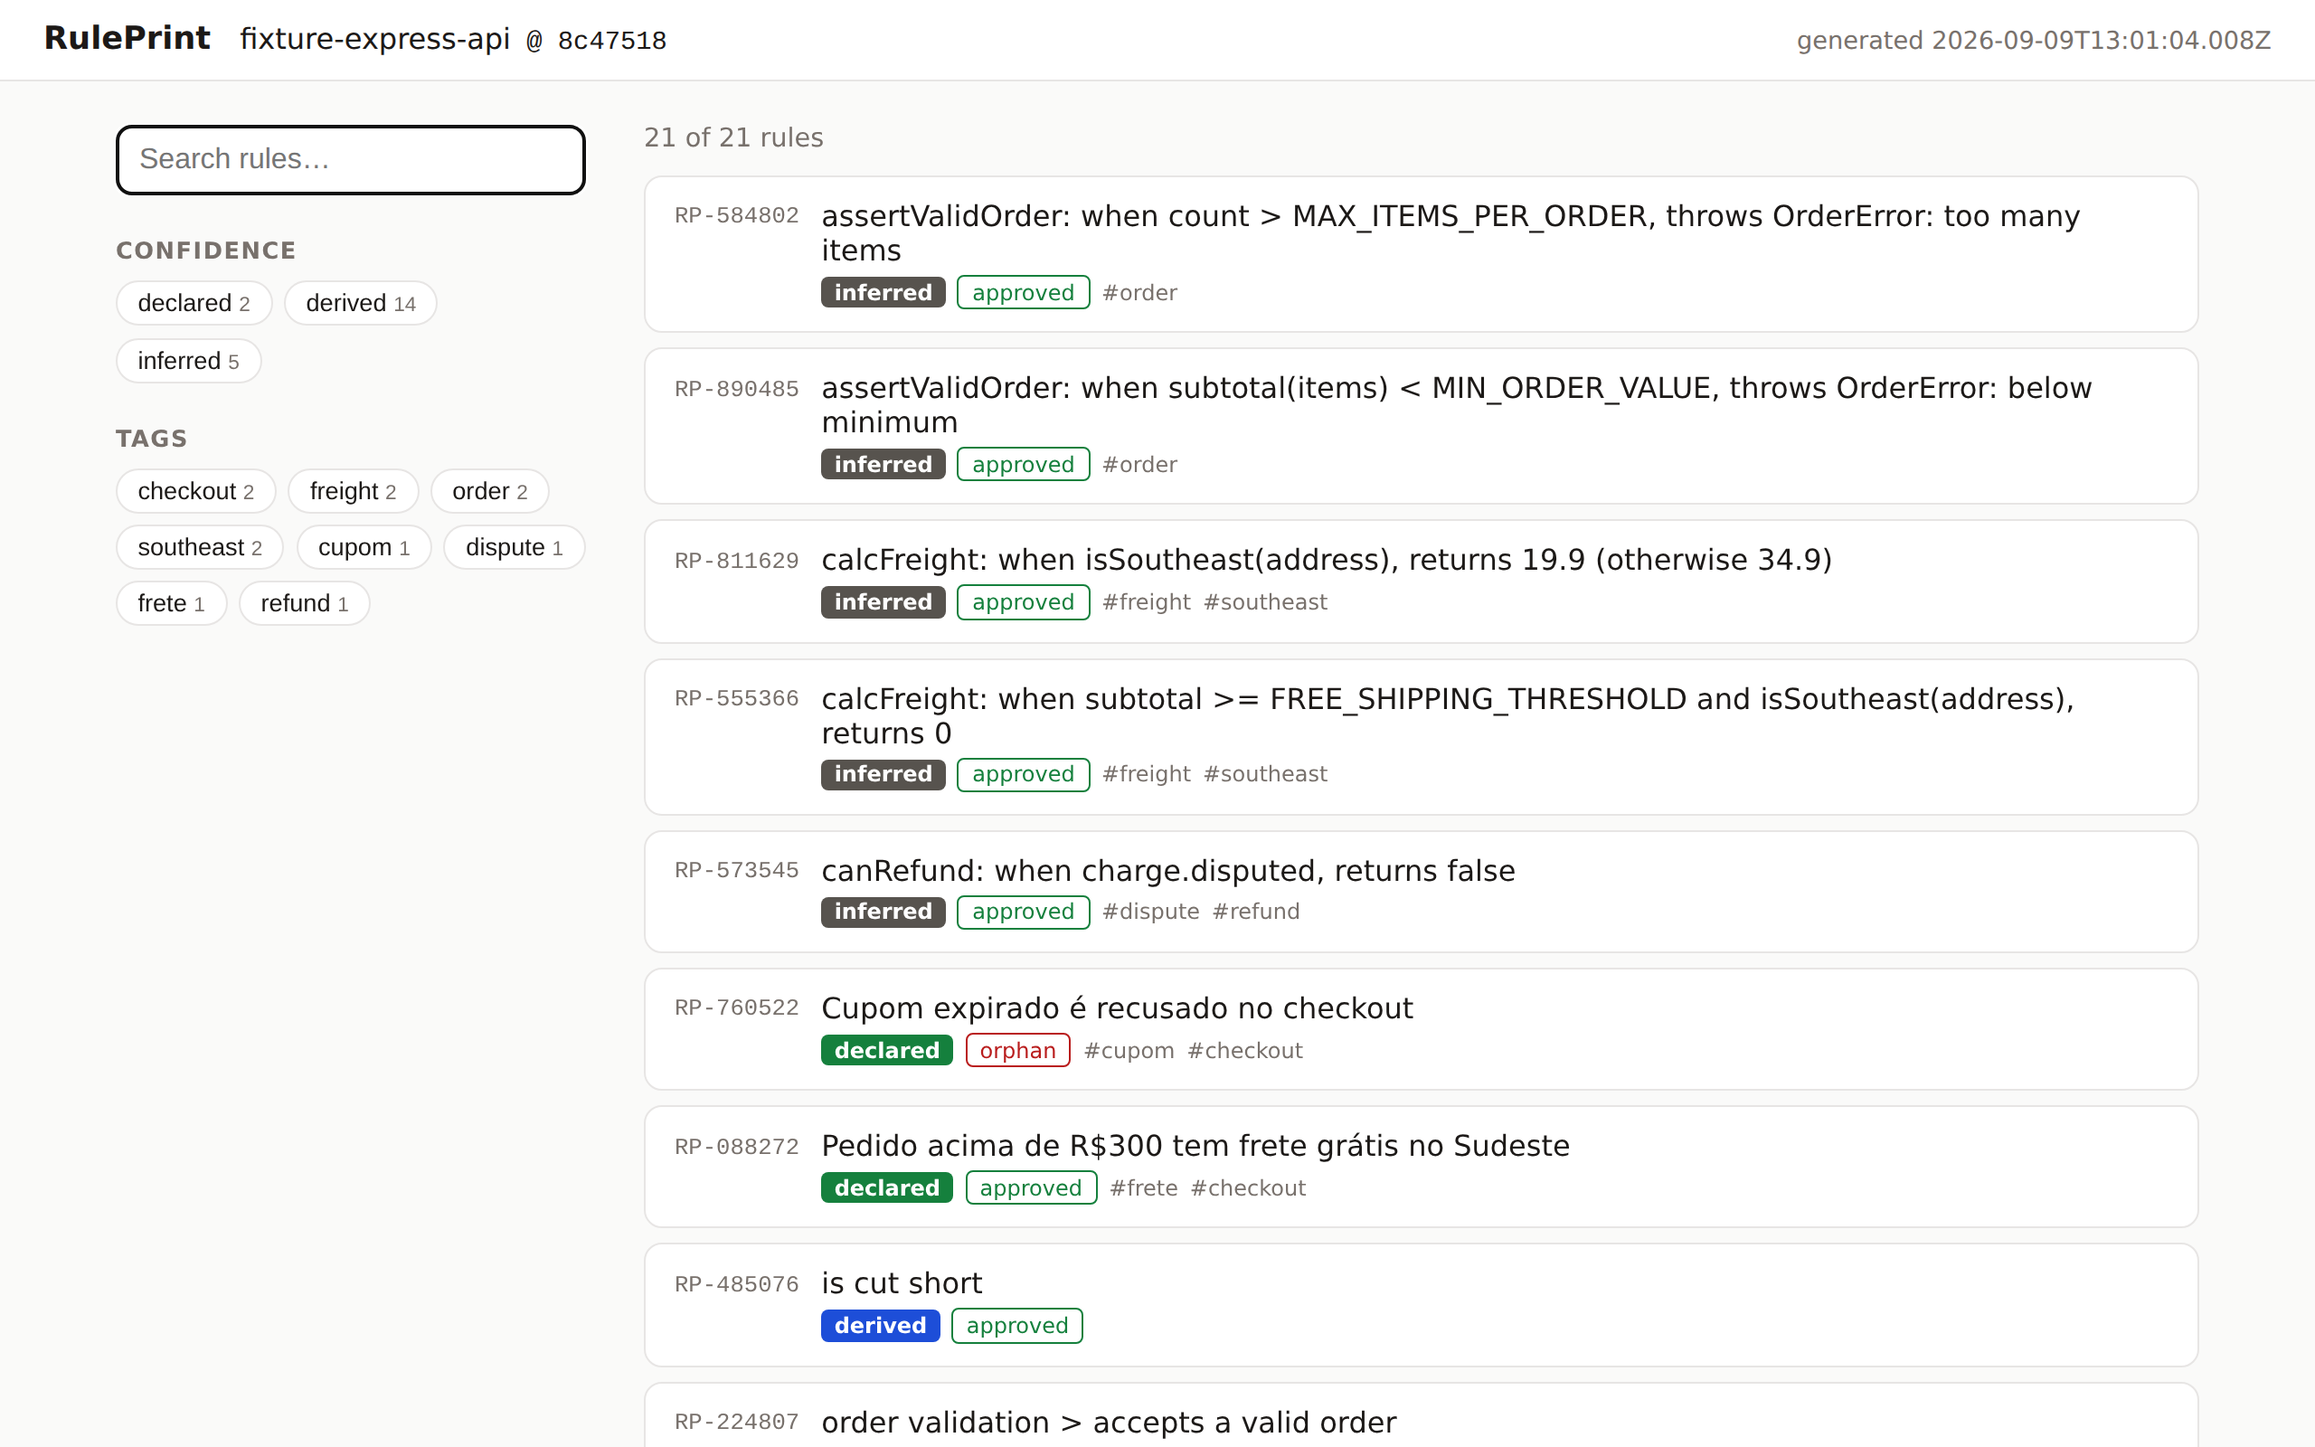
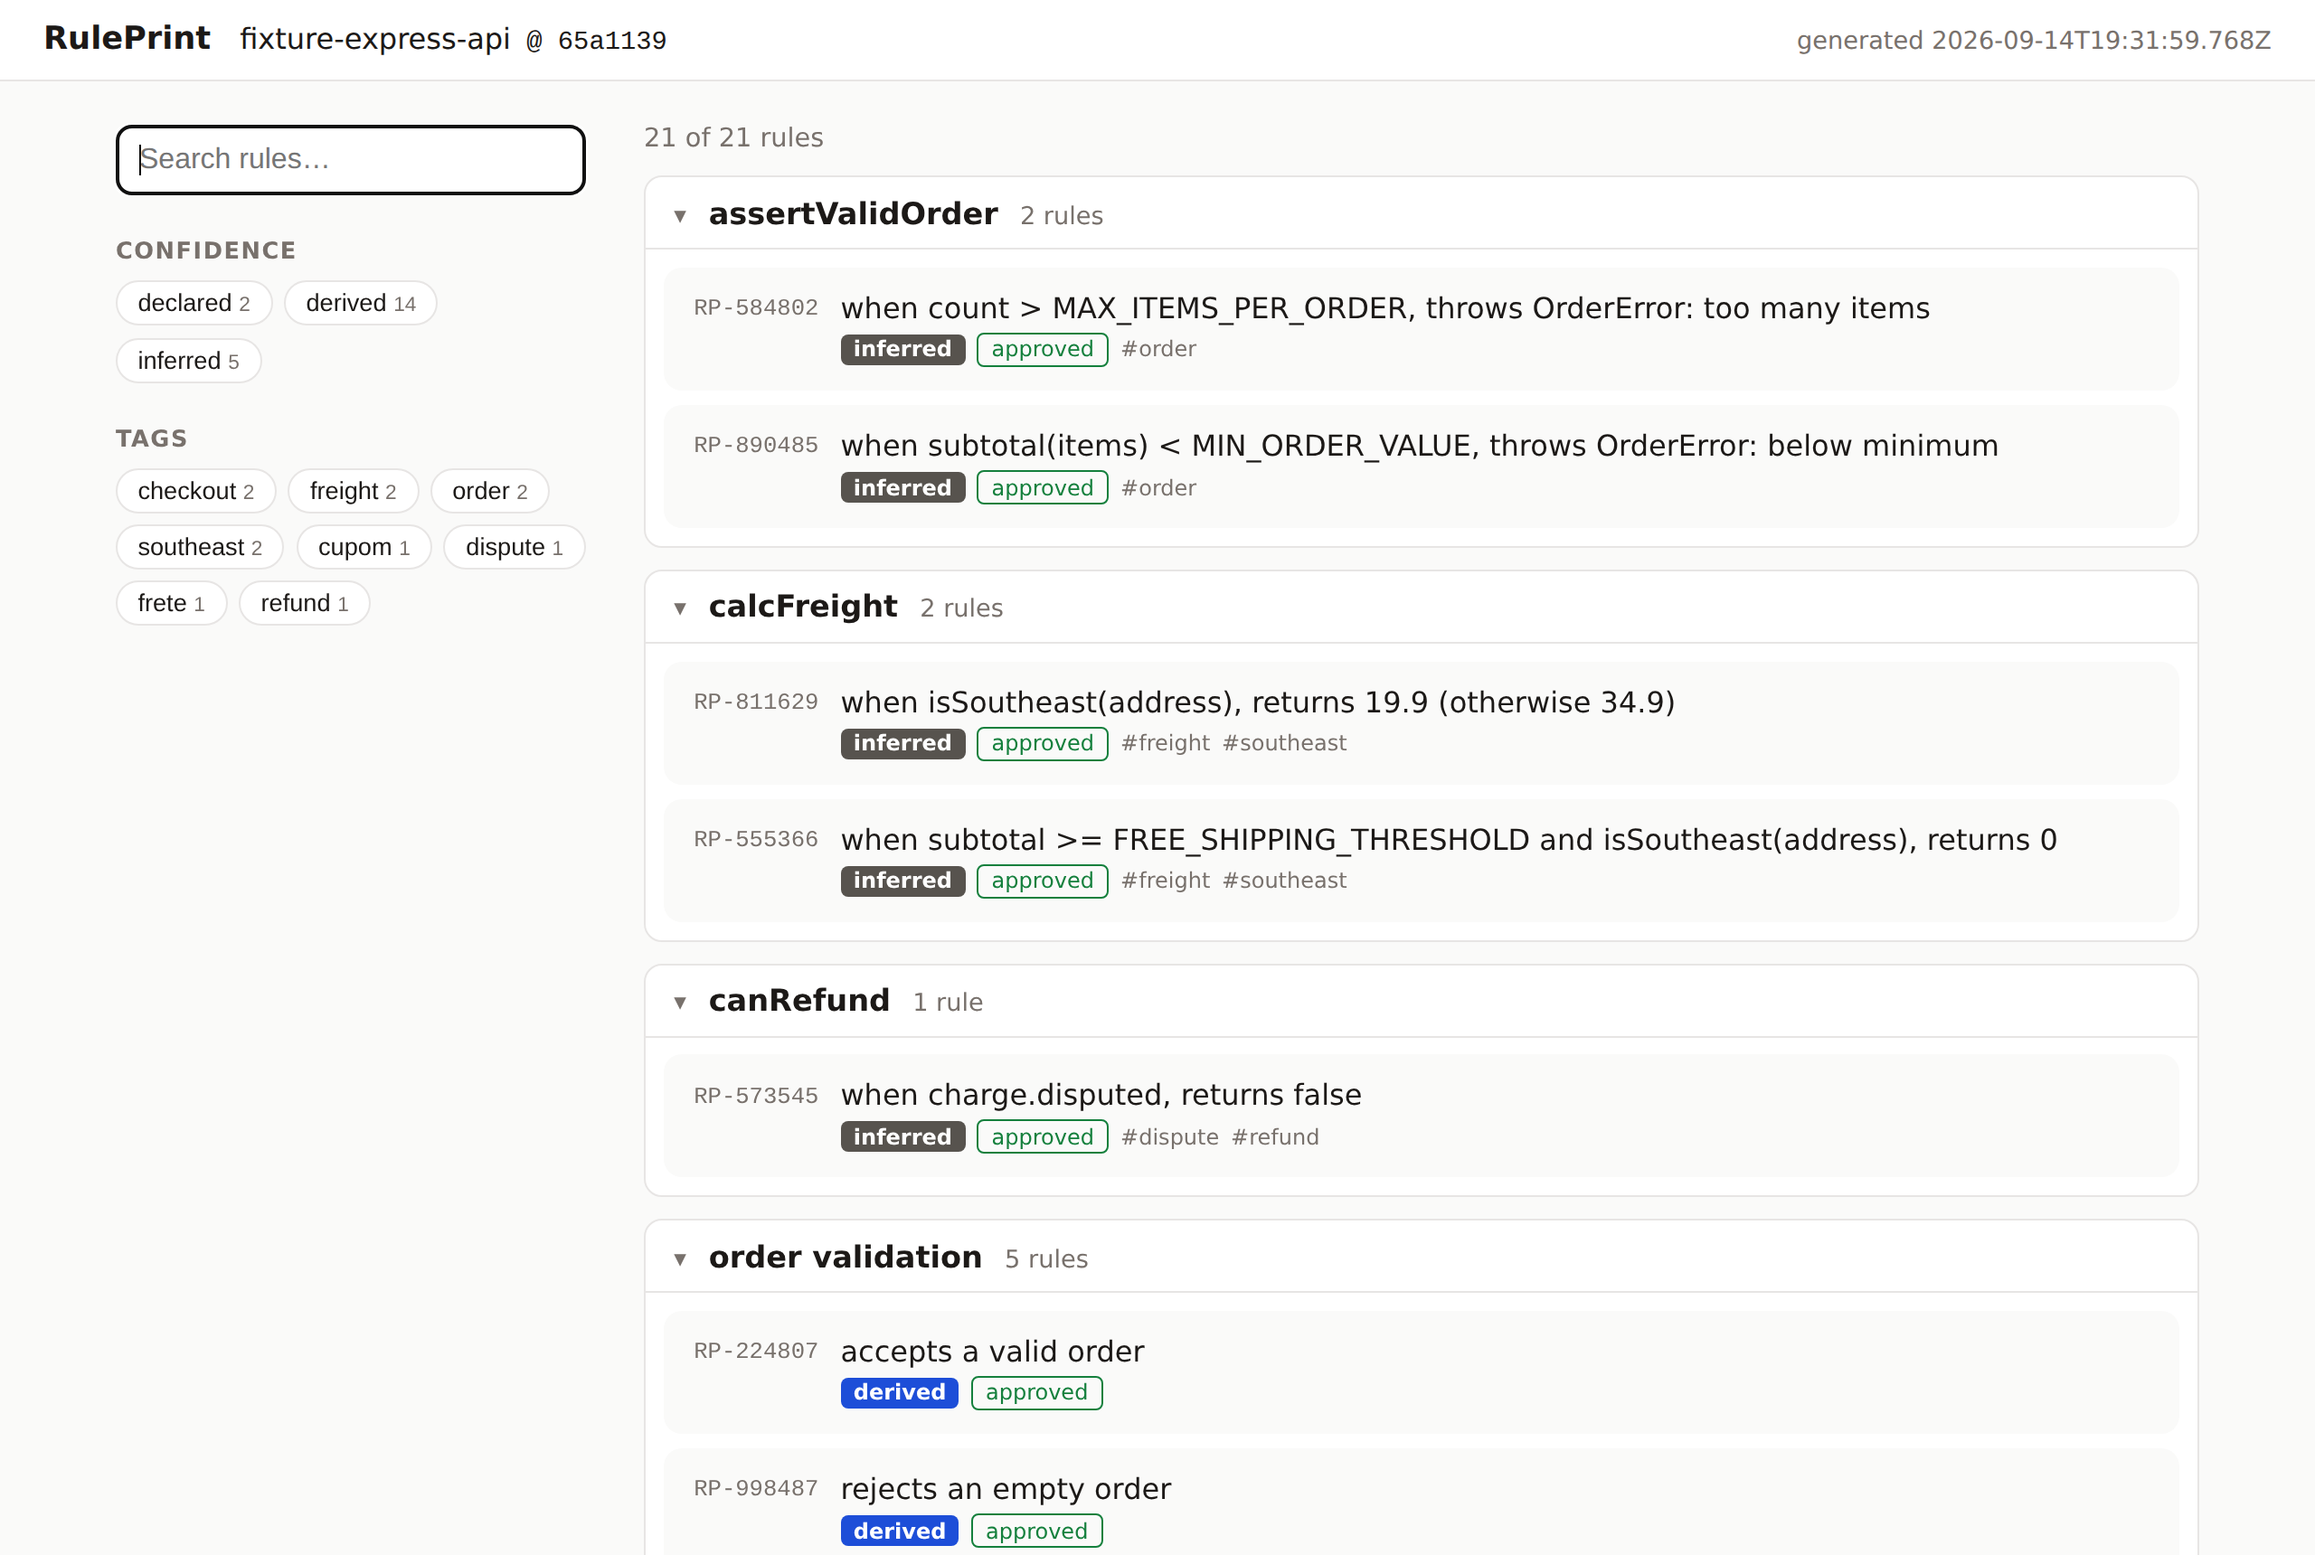
feat(ui): strip the function prefix inside ast groups; refresh golden and screenshots
Claude-Session: https://claude.ai/code/session_01DgeCayPQhmrtbMapYC5uWZ

diff --git a/packages/ui/src/lib/groups.ts b/packages/ui/src/lib/groups.ts
@@ -38,11 +38,14 @@ export function groupRules(rules: readonly Rule[]): RuleGroupView[] {
   return groups;
 }
 
-/** The title without its `<group> > ` prefix, for listing inside the group. */
+/** The title without its `<group> > ` (tests) or `<group>: ` (ast) prefix, for the group list. */
 export function displayTitle(rule: Rule): string {
   if (rule.group === undefined) return rule.title;
-  const prefix = `${rule.group} > `;
-  if (!rule.title.startsWith(prefix)) return rule.title;
-  const rest = rule.title.slice(prefix.length);
-  return rest.trim() === '' ? rule.title : rest;
+  for (const separator of [' > ', ': ']) {
+    const prefix = `${rule.group}${separator}`;
+    if (!rule.title.startsWith(prefix)) continue;
+    const rest = rule.title.slice(prefix.length);
+    return rest.trim() === '' ? rule.title : rest;
+  }
+  return rule.title;
 }

diff --git a/packages/ui/src/lib/groups.test.ts b/packages/ui/src/lib/groups.test.ts
@@ -67,6 +67,7 @@ describe('displayTitle()', () => {
     expect(displayTitle(rules[0] as Rule)).toBe('frete grátis > acima de 300');
     expect(displayTitle(rules[4] as Rule)).toBe('Pedido acima de R$300 tem frete grátis');
     expect(displayTitle(rules[1] as Rule)).toBe('Cupom expirado é recusado');
+    expect(displayTitle(rules[5] as Rule)).toBe('when isSoutheast(address), returns 19.9');
     expect(displayTitle(rule('RP-000009', 'shipping', 'shipping'))).toBe('shipping');
     expect(displayTitle(rule('RP-000010', 'shipping > ', 'shipping'))).toBe('shipping > ');
   });
